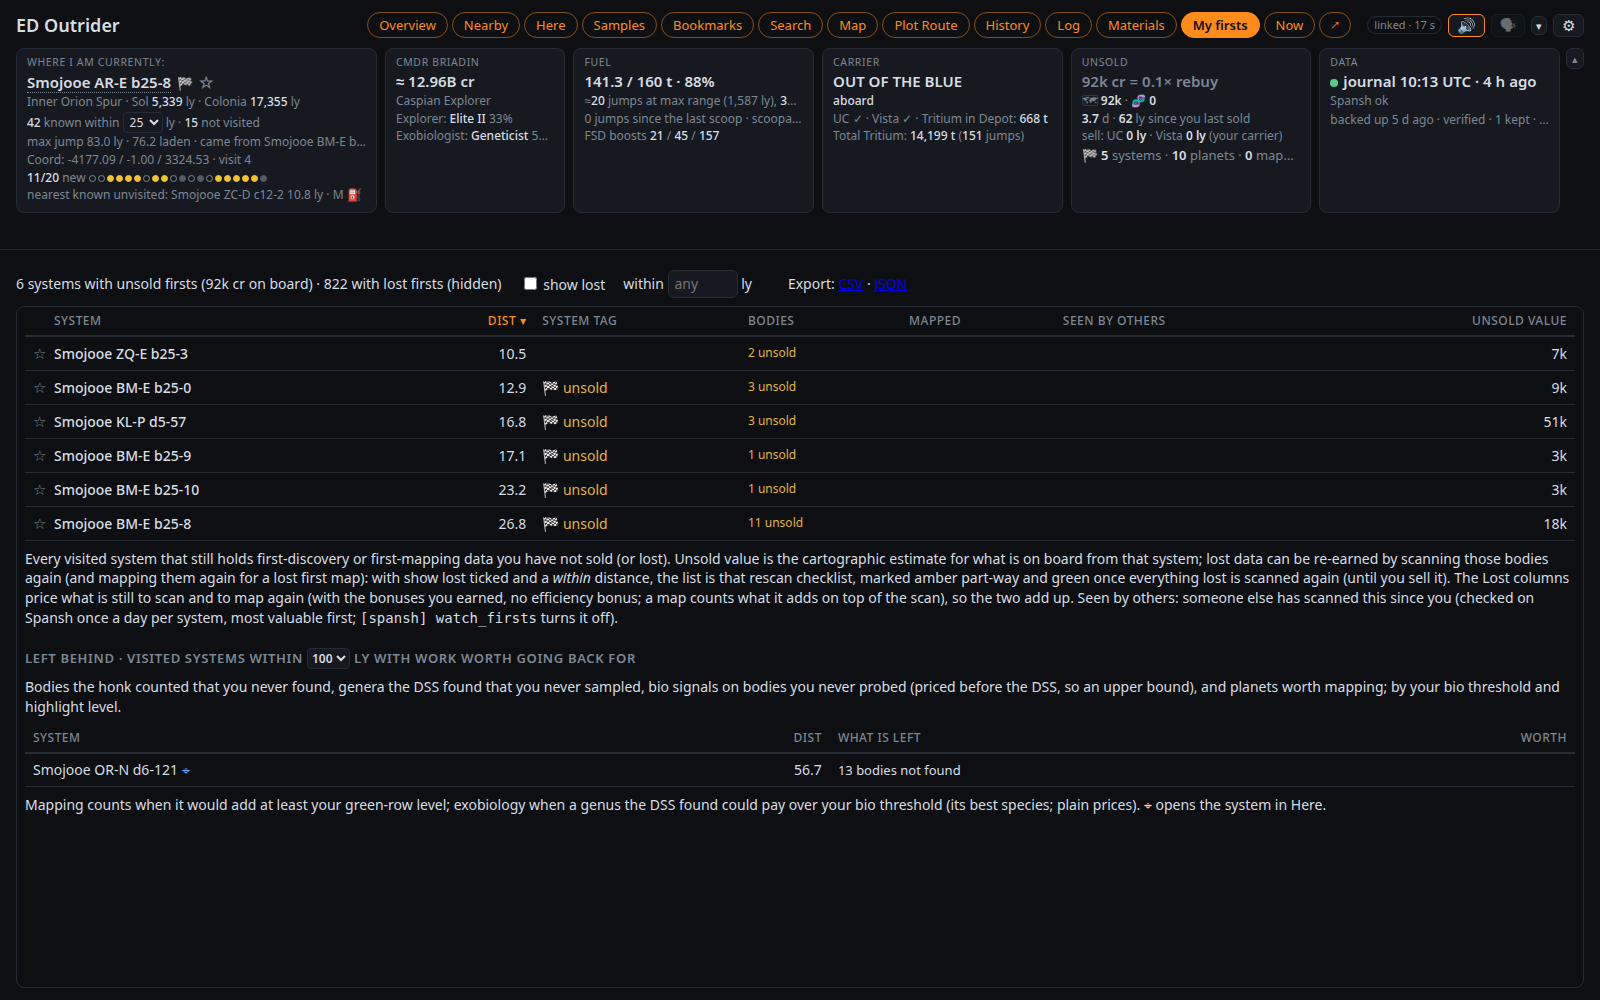
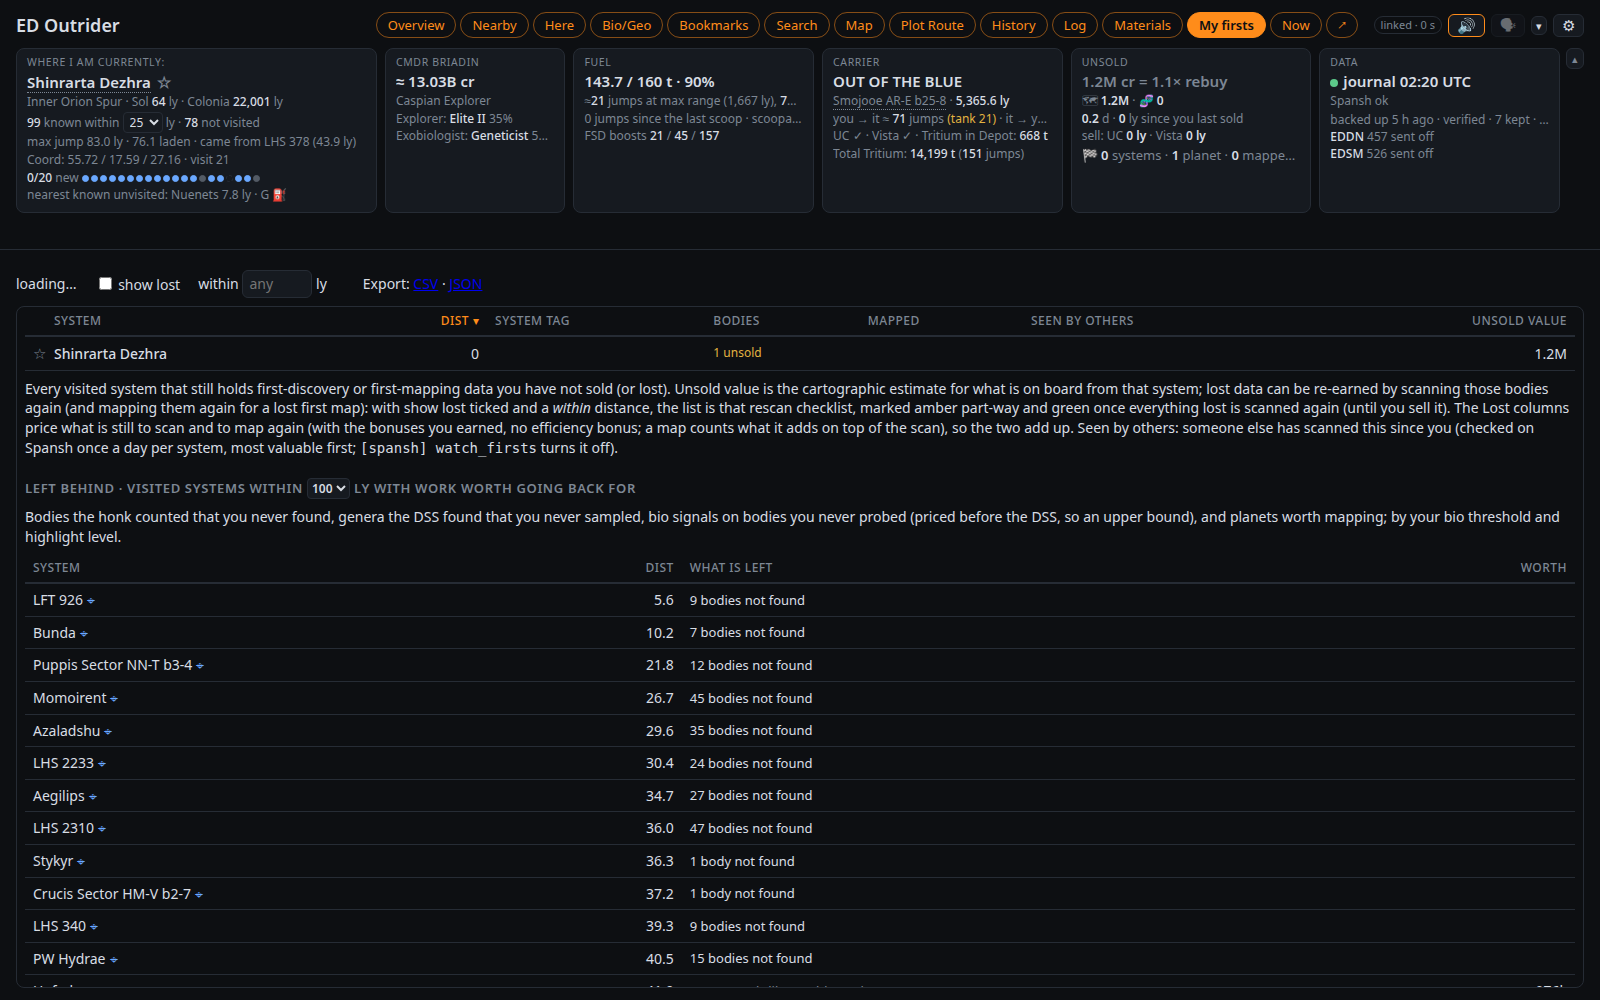
Screenshots retaken for the Bio/Geo menu
Every guide image that shows the top menu, taken again from a copy of
the database with the journals read only: the views, Plot Route (a route
to Colonia), cargo, trade, Nearest, the checklist, the themes and the
tablet.

diff --git a/docs/CHANGELOG.md b/docs/CHANGELOG.md
@@ -2,6 +2,12 @@
 
 Newest first, one entry per commit.
 
+## 2026-10-10 · Screenshots retaken for the Bio/Geo menu
+- Every guide image that shows the top menu, taken again (the scratch server, a copy of the database, the journals
+  read only): overview, nearby, here, schematic, map, highway (a route to Colonia), history, samples (My Samples),
+  log, materials, firsts, search, cargo (the Sell lookup), trade, nearest, checklist (a sold species' colours
+  dropped down), the four themes and the tablet (Explore with Bio/Geo, the surface map).
+
 ## 2026-10-09 · The Samples tab is now Bio/Geo
 - The top menu's (and the tablet's) **Samples** is **Bio/Geo**, and its switch reads **My Samples** (was Runs),
   **Exo-Biology** (was Checklist) and **Geology**: the tab holds the geology checklist too now. Only the words changed
